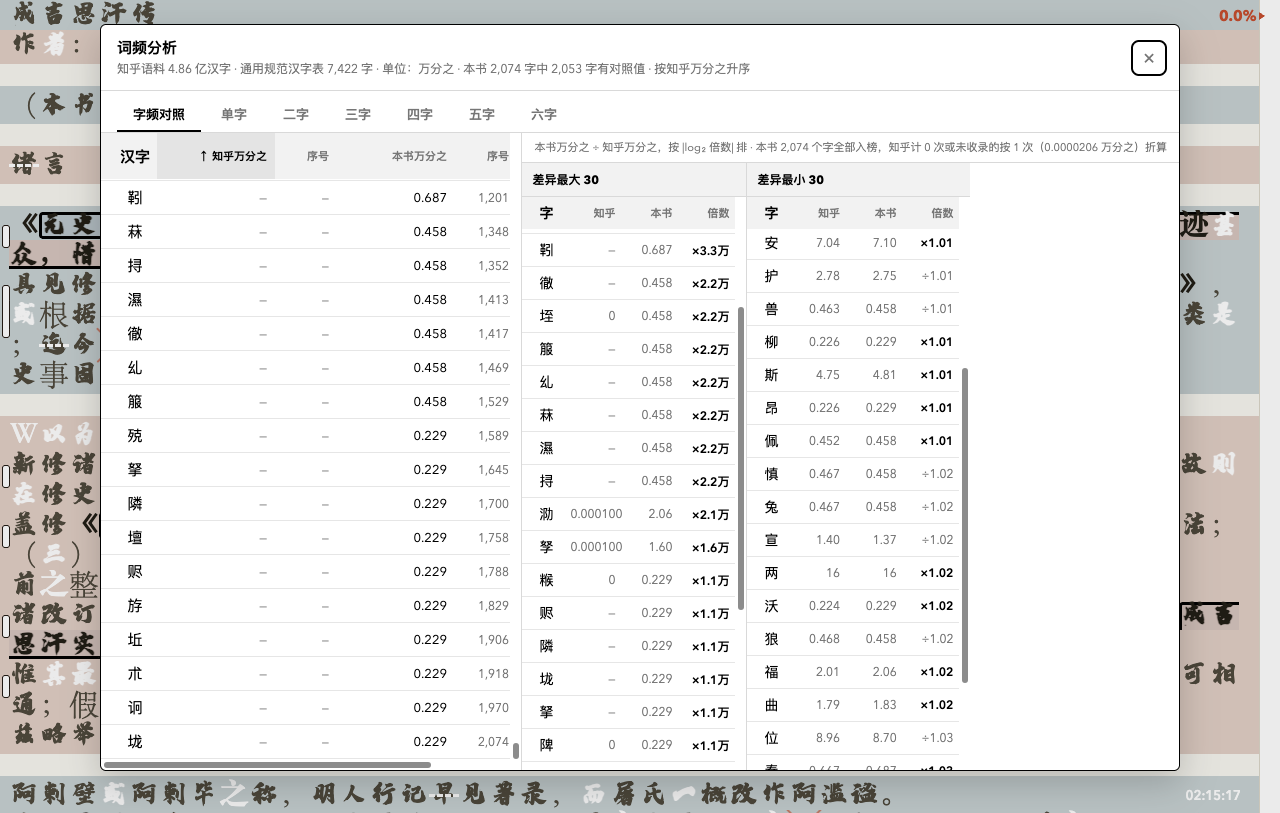
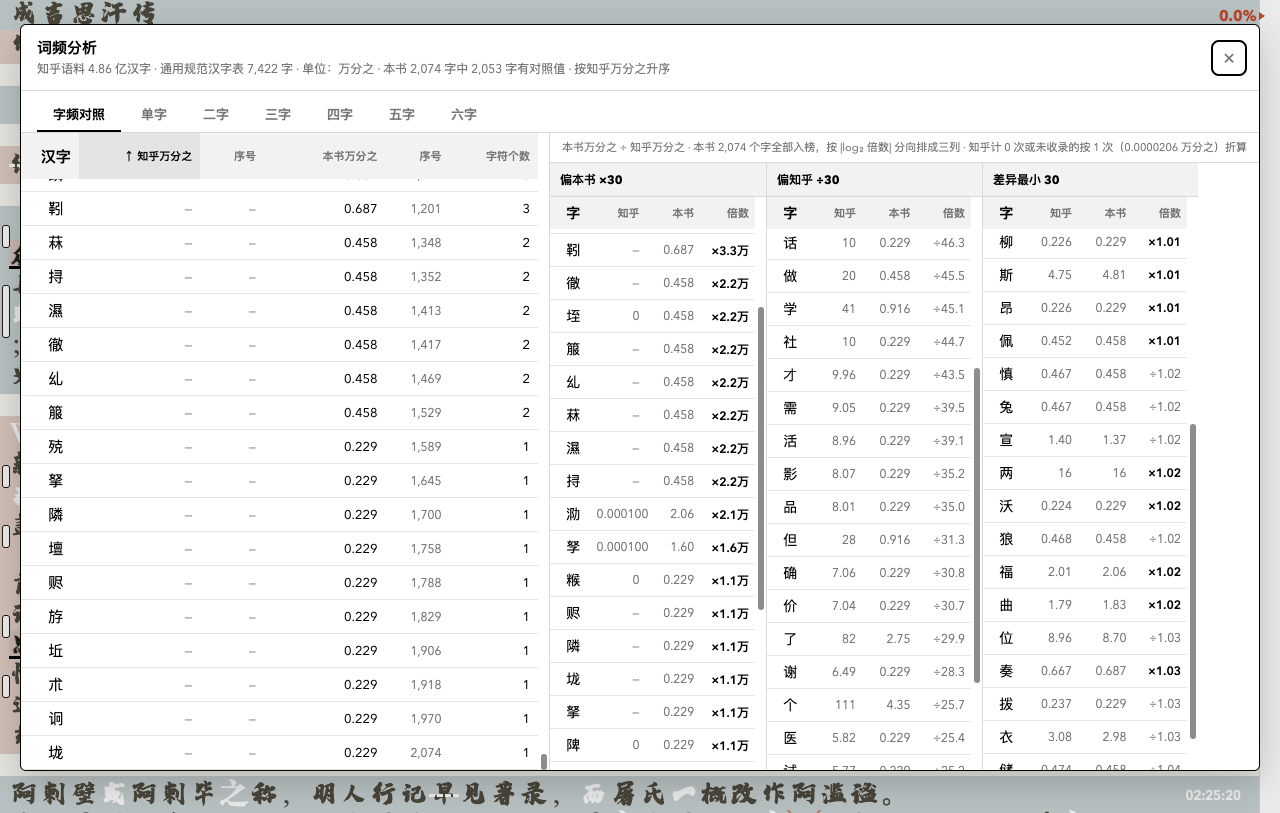
这个也再细分成两列吧 一列是乘法排序 一列是除法排序
差异榜从两列拆成三列：偏本书 ×30、偏知乎 ÷30、差异最小 30。

- 原来「差异最大」把两个方向混在一列，×3.3万 的（靾/徽/垤，现代基本不用）和 ÷46 的
  （话/做/学/社，现代常用但这本书回避）互相挤掉，看不出这本书的取向；现在各排各的 30 名。
  偏多列 = 比值 > 1 按 |log₂| 降序，偏少列 = 比值 < 1 同样降序，最小列不变（全集升序）。
- 列标题带实际条数（偏本书 ×30 / 偏知乎 ÷30 / 差异最小 30），并各带 title 说明口径。
- 弹窗宽对照从 1080 提到 1240px：主表六列要 502px、三列榜单要 ~709px。回归里加了
  「主表 scrollWidth ≤ 容器宽」的断言，之前 1180 时主表被挤成横向滚动、字符个数那列被裁，
  这条以后能直接挡住同类布局回归。
- tmp/verify-字频对照.mjs：节点侧按同样三种筛选各自复算，逐格比对三列 30 行；
  新增方向纯净断言（偏多列全 ×、偏少列全 ÷）、倍数单调递减（按含「万」的数值比）、
  三列滚动位置互不影响且与主表无关、滚动后内容不变；说明行断言改为「三列」。
- npm test 45 项全绿、依赖图无环。

diff --git a/index.html b/index.html
@@ -412,11 +412,11 @@
         <p id="字频差异说明" class="字频差异说明">正在计算差异</p>
         <div class="字频差异栏列表">
           <div class="字频差异栏">
-            <h3 id="字频差异最大标题" class="字频差异标题">差异最大 30</h3>
+            <h3 id="字频差异偏多标题" class="字频差异标题" title="本书用得远比现代多的字（倍数 ×，按倍数从大到小）">偏本书 ×30</h3>
             <div
-              id="字频差异最大滚动"
+              id="字频差异偏多滚动"
               class="字频差异滚动"
-              aria-label="差异最大的字，可滚动"
+              aria-label="本书用得远比现代多的字（倍数 ×，按倍数从大到小），可滚动"
             >
               <table class="词频表格 字频差异表格">
                 <thead>
@@ -427,16 +427,36 @@
                     <th scope="col">倍数</th>
                   </tr>
                 </thead>
-                <tbody id="字频差异最大列表"></tbody>
+                <tbody id="字频差异偏多列表"></tbody>
               </table>
             </div>
           </div>
           <div class="字频差异栏">
-            <h3 id="字频差异最小标题" class="字频差异标题">差异最小 30</h3>
+            <h3 id="字频差异偏少标题" class="字频差异标题" title="本书用得远比现代少的字（倍数 ÷，按倍数从大到小）">偏知乎 ÷30</h3>
+            <div
+              id="字频差异偏少滚动"
+              class="字频差异滚动"
+              aria-label="本书用得远比现代少的字（倍数 ÷，按倍数从大到小），可滚动"
+            >
+              <table class="词频表格 字频差异表格">
+                <thead>
+                  <tr>
+                    <th scope="col">字</th>
+                    <th scope="col">知乎</th>
+                    <th scope="col">本书</th>
+                    <th scope="col">倍数</th>
+                  </tr>
+                </thead>
+                <tbody id="字频差异偏少列表"></tbody>
+              </table>
+            </div>
+          </div>
+          <div class="字频差异栏">
+            <h3 id="字频差异最小标题" class="字频差异标题" title="两边用得几乎一样多的字（倍数最接近 1）">差异最小 30</h3>
             <div
               id="字频差异最小滚动"
               class="字频差异滚动"
-              aria-label="差异最小的字，可滚动"
+              aria-label="两边用得几乎一样多的字（倍数最接近 1），可滚动"
             >
               <table class="词频表格 字频差异表格">
                 <thead>
@@ -451,7 +471,6 @@
               </table>
             </div>
           </div>
-        </div>
       </aside>
       </div>
       <div

diff --git a/js/字频差异.js b/js/字频差异.js
@@ -2,7 +2,7 @@ import { 元素 } from './状态.js';
 import { 格式化倍数, 格式化万分率 } from './万分率.js';
 import { 取知乎序号, 取知乎万分率, 知乎语料汉字总数 } from './知乎字频.js';
 
-// 字频差异榜：词频对照右侧的独立模块，固定 30 + 30 行，一次渲染完，
+// 字频差异榜：词频对照右侧的独立模块，三列各 30 行，一次渲染完，
 // 不进 虚拟列表、也不跟主表共享滚动容器（主表滚多少都与它无关）。
 //
 // 差异口径 = 本书万分之 ÷ 知乎万分之 的倍数（按 |log2| 排序）。
@@ -75,11 +75,19 @@ function 填列(表体, 行列表) {
 
 export function 渲染字频差异榜(分析) {
   const 行列表 = 计算差异行(分析);
-  填列(元素.字频差异最大列表, 排序取榜(行列表, true).slice(0, 榜长));
-  填列(元素.字频差异最小列表, 排序取榜(行列表, false).slice(0, 榜长));
+  // 「差异最大」按方向拆成两列：× 是本书远比现代常用，÷ 是本书远比现代少用。
+  // 混在一列里时两端会互相挤掉，看不出这本书到底是回避还是偏爱某类字。
+  const 偏多 = 排序取榜(行列表.filter((行) => 行.比值 > 1), true).slice(0, 榜长);
+  const 偏少 = 排序取榜(行列表.filter((行) => 行.比值 < 1), true).slice(0, 榜长);
+  const 最小 = 排序取榜(行列表, false).slice(0, 榜长);
+  填列(元素.字频差异偏多列表, 偏多);
+  填列(元素.字频差异偏少列表, 偏少);
+  填列(元素.字频差异最小列表, 最小);
   元素.字频差异说明.textContent =
-    `本书万分之 ÷ 知乎万分之，按 |log₂ 倍数| 排 · 本书 ${行列表.length.toLocaleString('zh-CN')} ` +
-    `个字全部入榜，知乎计 0 次或未收录的按 1 次（${零次下限.toFixed(7)} 万分之）折算`;
-  元素.字频差异最大标题.textContent = `差异最大 ${Math.min(榜长, 行列表.length)}`;
-  元素.字频差异最小标题.textContent = `差异最小 ${Math.min(榜长, 行列表.length)}`;
+    `本书万分之 ÷ 知乎万分之 · 本书 ${行列表.length.toLocaleString('zh-CN')} 个字全部入榜，` +
+    `按 |log₂ 倍数| 分向排成三列 · 知乎计 0 次或未收录的按 1 次` +
+    `（${零次下限.toFixed(7)} 万分之）折算`;
+  元素.字频差异偏多标题.textContent = `偏本书 ×${偏多.length}`;
+  元素.字频差异偏少标题.textContent = `偏知乎 ÷${偏少.length}`;
+  元素.字频差异最小标题.textContent = `差异最小 ${最小.length}`;
 }

diff --git a/js/状态.js b/js/状态.js
@@ -247,11 +247,14 @@ export const 元素 = {
   字频对照容器: document.querySelector('#字频对照容器'),
   字频对照列表: document.querySelector('#字频对照列表'),
   字频差异说明: document.querySelector('#字频差异说明'),
-  字频差异最大标题: document.querySelector('#字频差异最大标题'),
+  字频差异偏多标题: document.querySelector('#字频差异偏多标题'),
+  字频差异偏少标题: document.querySelector('#字频差异偏少标题'),
   字频差异最小标题: document.querySelector('#字频差异最小标题'),
-  字频差异最大滚动: document.querySelector('#字频差异最大滚动'),
+  字频差异偏多滚动: document.querySelector('#字频差异偏多滚动'),
+  字频差异偏少滚动: document.querySelector('#字频差异偏少滚动'),
   字频差异最小滚动: document.querySelector('#字频差异最小滚动'),
-  字频差异最大列表: document.querySelector('#字频差异最大列表'),
+  字频差异偏多列表: document.querySelector('#字频差异偏多列表'),
+  字频差异偏少列表: document.querySelector('#字频差异偏少列表'),
   字频差异最小列表: document.querySelector('#字频差异最小列表'),
   单字双列表: document.querySelector('#单字双列表'),
   单字重复列表: document.querySelector('#单字重复列表'),

diff --git a/styles.css b/styles.css
@@ -2899,7 +2899,8 @@ dialog,
 
 /* 对照视图右侧的差异榜：主表 + 两栏各 30 行，弹窗在对照视图下加宽 */
 .词频弹窗.宽对照 {
-  width: min(1080px, calc(100vw - 32px));
+  /* 主表六列要 502px、三列榜单要 ~709px，加上边框留一点余量 */
+  width: min(1240px, calc(100vw - 32px));
 }
 
 .字频对照视图 {
@@ -2946,7 +2947,7 @@ dialog,
 
 .字频差异栏 {
   display: flex;
-  width: 224px;
+  width: 216px;
   min-height: 0;
   flex-direction: column;
 }

diff --git a/README.md b/README.md
@@ -28,7 +28,7 @@
 
 三个视图（字频对照、单字、二至六字）共用同一套虚拟列表 `js/虚拟列表.js`：固定行高 + 视口窗口切片 + 上下各 8 行缓冲，用两条占位行把总高撑出来，所以几万条也只挂二十几行 DOM，直接滚就行，没有翻页条；单字视图的两张表各自按自己的行数撑高，短的那张读完就只剩占位行。列表容器可聚焦（Tab 到位后用方向键 / 空格滚动）。
 
-对照视图右侧还挂着一个**独立**的差异榜模块（`js/字频差异.js`）：左栏「差异最大 30」、右栏「差异最小 30」，一次渲染 30+30 行，不进虚拟列表、不接主表的滚动，两栏各自有自己的滚动条，主表排序或滚动都不影响它（对照视图下弹窗加宽到 1080px 才放得下）。差异口径是「本书万分之 ÷ 知乎万分之」的倍数，按 |log₂| 排：不用绝对差是因为绝对差的最大端永远是「的了是一」这些高频虚词、最小端永远是两边都不出现的生僻字，两头都没有信息量。本书出现过的每个字都入榜，不设次数门槛；知乎计 0 次、或压根未收录的字，分母统一按语料里出现 1 次（0.0000206 万分之）折算，这样比值有限、又自然排到最前——所以「差异最大」端会是现代基本不用的字。每行给「字 / 知乎 / 本书 / 倍数」，知乎一栏与主表同口径（未收录显示「—」、表内计 0 显示「0」）；倍数用 ×、÷ 表方向（× 是本书更爱用，÷ 是本书回避），接近 1 时保留两位小数、过万改用「万」，免得「差异最小」整榜印成同一个 ×1。
+对照视图右侧还挂着一个**独立**的差异榜模块（`js/字频差异.js`）：三列各 30 行——「偏本书 ×30」（倍数 ×，本书用得远比现代多）、「偏知乎 ÷30」（倍数 ÷，本书用得远比现代少）、「差异最小 30」（倍数最贴近 1），一次渲染完，不进虚拟列表、不接主表的滚动，三列各自有自己的滚动条，主表排序或滚动都不影响它们，彼此也互不影响（对照视图下弹窗加宽到 1240px 才放得下，回归里断言主表六列不被挤成横向滚动）。差异口径是「本书万分之 ÷ 知乎万分之」的倍数，按 |log₂| 排：不用绝对差是因为绝对差的最大端永远是「的了是一」这些高频虚词、最小端永远是两边都不出现的生僻字，两头都没有信息量；× 和 ÷ 分列而不是混在一列，是因为混着排会把「这本书回避的现代常用字」和「这本书独有的字」互相挤掉，两端各看各的才看得出取向。本书出现过的每个字都入榜，不设次数门槛；知乎计 0 次、或压根未收录的字，分母统一按语料里出现 1 次（0.0000206 万分之）折算，这样比值有限、又自然排到最前——所以「偏本书」端会是现代基本不用的字。每列给「字 / 知乎 / 本书 / 倍数」，知乎一栏与主表同口径（未收录显示「—」、表内计 0 显示「0」）；倍数接近 1 时保留两位小数、过万改用「万」，免得「差异最小」整榜印成同一个 ×1。
 
 按 Ctrl + S（macOS 也可按 Command + S）打开或关闭字体设置。弹窗顶部有“全部”“正文”“spk”“关键词”与“背景”五个标签页，可为全部正文或两个区域分别设置字体与粗细；“全部”还可独立设置内置字词颜色，统一控制数字、人称代词、关系字与内置连词的字色；“正文”标签页可设置奇偶段落的整行底色。也可单独设置关键词颜色与粗细以及同时控制页面背景与纸面的背景色；关键词粗细支持点击或在按钮上滚动滚轮逐档循环调整。spk 按全文出现顺序交替使用奇数、偶数背景色，不受所在段落或虚拟滚动范围影响；“spk”标签页可分别配置两种颜色，也可关闭背景色。后一次设置会覆盖所涉及区域并自动保存。弹窗为普通浮层（非 dialog 元素），可通过右上角 ×、底部“关闭”按钮、点按遮罩层、按 Esc 或再次按 Ctrl + S 关闭。
 
@@ -71,7 +71,7 @@ CDP_PORT=<Chrome 远程调试端口> node tests/chapter-browser.mjs
 
 浏览器测试复用已打开的阅读器标签，不启动或关闭浏览器；临时拦截 TXT 请求以验证千章目录，结束后恢复阅读数据并清除测试的设备模拟。
 
-另有自带环境的端到端脚本（自己拉起本地服务与 headless Chrome，开跑前清掉残留端口、自动挑空闲端口、首屏没起来会重导一次，跑完自动收工）：`node tmp/verify-字频对照.mjs` 走真实入口载入正文后滚遍全表，逐行比对六格（万分之、名次、字符个数、排序结果）与节点侧独立复算，校验虚拟窗口（行序号连续、窗口起点与 scrollTop 对应、DOM 只有几十行）、五列点击排序与反向、缺表字恒垫底、表头与数字右边缘齐平、右侧差异榜 30+30 与主表滚动完全独立、tab 切换；`node tmp/verify-txt-directory-listing.mjs` 校验「阅读内容」能读到 txt 目录。
+另有自带环境的端到端脚本（自己拉起本地服务与 headless Chrome，开跑前清掉残留端口、自动挑空闲端口、首屏没起来会重导一次，跑完自动收工）：`node tmp/verify-字频对照.mjs` 走真实入口载入正文后滚遍全表，逐行比对六格（万分之、名次、字符个数、排序结果）与节点侧独立复算，校验虚拟窗口（行序号连续、窗口起点与 scrollTop 对应、DOM 只有几十行）、五列点击排序与反向、缺表字恒垫底、表头与数字右边缘齐平、右侧三列差异榜各 30 行与主表、彼此之间滚动完全独立、tab 切换；`node tmp/verify-txt-directory-listing.mjs` 校验「阅读内容」能读到 txt 目录。
 
 ## 运行
 
